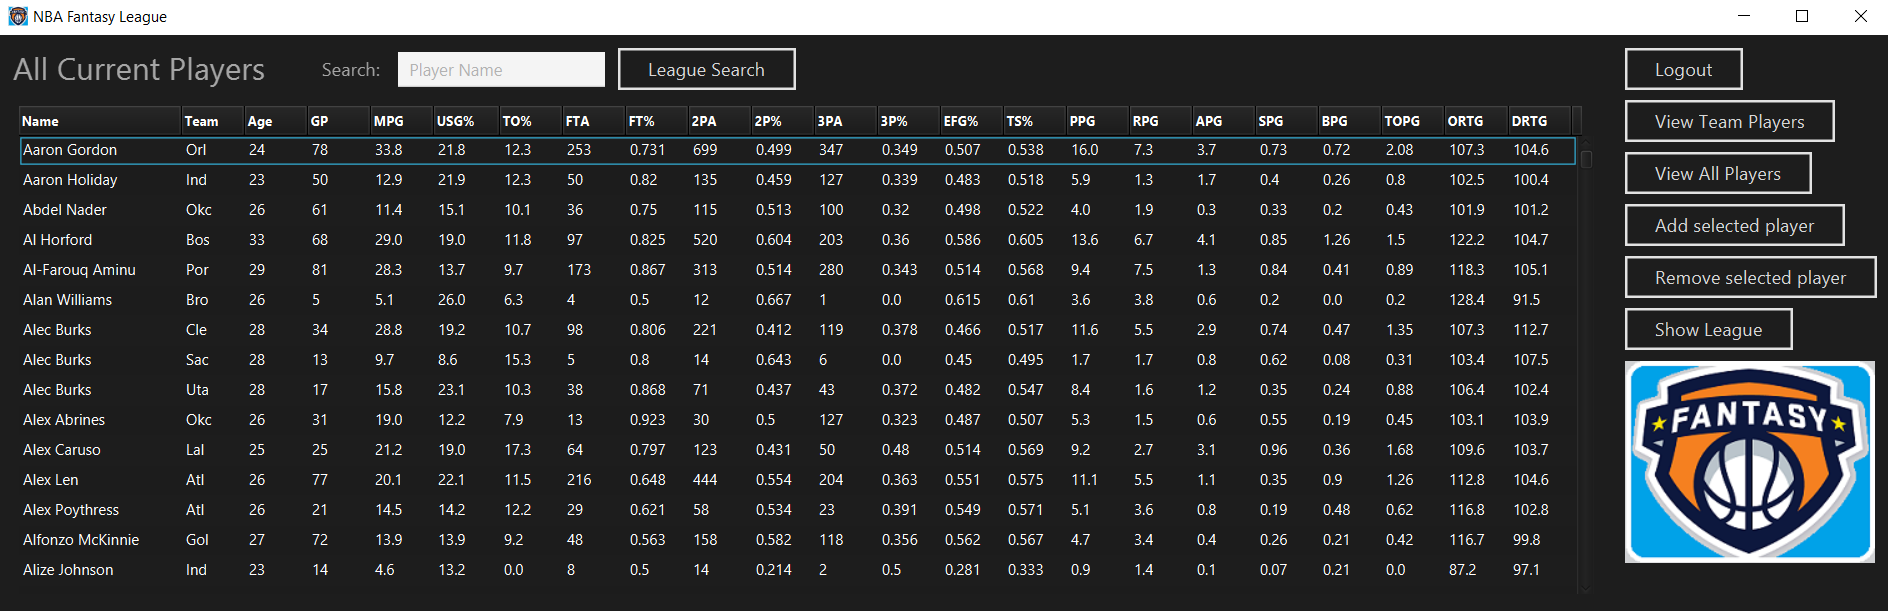
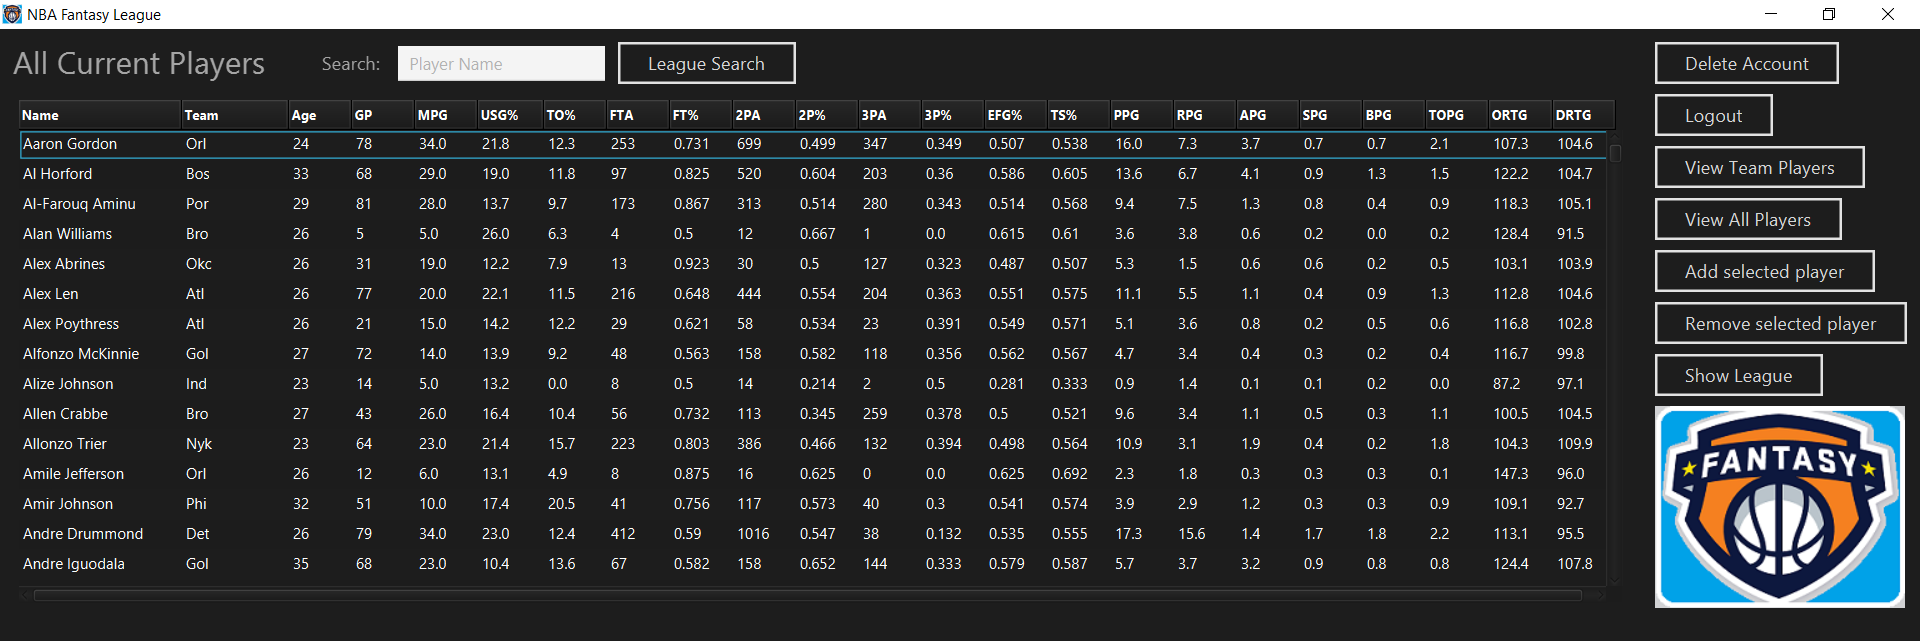
initial commit

Changed region(s): [[0.0, 0.0, 1.0, 0.964], [0.0, 0.6841, 0.0625, 0.7463]]

diff --git a/src/Main.java b/src/Main.java
@@ -1,5 +1,3 @@
-package league;
-
 import javafx.application.Application;
 import javafx.collections.FXCollections;
 import javafx.collections.ObservableList;
@@ -12,11 +10,14 @@ import javafx.scene.image.Image;
 import javafx.scene.image.ImageView;
 import javafx.scene.layout.GridPane;
 import javafx.stage.Stage;
+import league.Database_Utils;
+import league.Player;
+import league.Team;
 
 import java.sql.ResultSet;
 import java.sql.SQLException;
 
-public class FantasyApplication extends Application {
+public class Main extends Application {
     private Stage window;
     private Scene login, team, league;
     private String user, pass;
@@ -56,11 +57,11 @@ public class FantasyApplication extends Application {
         grid.setAlignment(Pos.CENTER);
 
         Label title = new Label("NBA FANTASY LEAGUE");
-       // title.setStyle("-fx-font-size: 25;");
+        // title.setStyle("-fx-font-size: 25;");
         GridPane.setConstraints(title, 0, 0);
 
         ImageView logo = new ImageView(new Image("/images/fantasylogo5.png"));
-        GridPane.setConstraints(logo, 1,0);
+        GridPane.setConstraints(logo, 1, 0);
 
         Label username = new Label("Username: ");
         GridPane.setConstraints(username, 0, 1);
@@ -107,6 +108,10 @@ public class FantasyApplication extends Application {
                 userAlreadyExists.showAndWait();
             } else {
                 this.database.createUser(this.user, this.pass);
+                enterUsername.clear();
+                enterPassword.clear();
+                this.window.setScene(this.team);
+                this.window.centerOnScreen();
             }
         });
         GridPane.setConstraints(create_account, 1, 3);
@@ -121,7 +126,6 @@ public class FantasyApplication extends Application {
         grid.setPadding(new Insets(10, 10, 10, 10));
         grid.setHgap(10);
         grid.setVgap(8);
-        grid.setAlignment(Pos.CENTER);
 
         allPlayers.setItems(getPlayerList(this.database.getAllPlayers()));
         GridPane.setConstraints(allPlayers, 0, 1, 4, 7);
@@ -143,9 +147,11 @@ public class FantasyApplication extends Application {
         );
         GridPane.setConstraints(searchButton, 3, 0);
 
-
         Button delete_account = new Button("Delete Account");
         delete_account.setOnAction(e -> {
+            title.setText("All Current Players     ");
+            allPlayers.setItems(getPlayerList(this.database.getAllPlayers()));
+            this.database.removeAllPlayers(this.user);
             this.database.deleteAccount(this.user);
             this.window.setScene(login);
             this.window.centerOnScreen();
@@ -154,6 +160,8 @@ public class FantasyApplication extends Application {
 
         Button logOut = new Button("Logout");
         logOut.setOnAction(e -> {
+            title.setText("All Current Players     ");
+            allPlayers.setItems(getPlayerList(this.database.getAllPlayers()));
             this.window.setScene(login);
             this.window.centerOnScreen();
         });
@@ -163,7 +171,7 @@ public class FantasyApplication extends Application {
         viewTeam.setOnAction(e -> {
             title.setText("Your Players      ");
             allPlayers.setItems(getPlayerList(this.database.getTeamPlayers(this.user)));
-            });
+        });
 
         GridPane.setConstraints(viewTeam, 5, 2);
 
@@ -174,9 +182,19 @@ public class FantasyApplication extends Application {
         });
         GridPane.setConstraints(viewAllPlayers, 5, 3);
 
+        Alert playerNotAvailable = new Alert(Alert.AlertType.ERROR);
+        playerNotAvailable.setTitle("Error");
+        playerNotAvailable.setHeaderText("Cannot add player");
+        playerNotAvailable.setContentText("Player is already registered on a team");
+
         Button addPlayer = new Button("Add selected player");
-        addPlayer.setOnAction(e ->
-                this.database.addPlayer(this.user, allPlayers.getSelectionModel().getSelectedItem().getName()));
+        addPlayer.setOnAction(e -> {
+            if (this.database.isPlayerAvailable(allPlayers.getSelectionModel().getSelectedItem().getName())) {
+                this.database.addPlayer(this.user, allPlayers.getSelectionModel().getSelectedItem().getName());
+            } else {
+                playerNotAvailable.showAndWait();
+            }
+        });
         GridPane.setConstraints(addPlayer, 5, 4);
 
         Button removePlayer = new Button("Remove selected player");
@@ -197,7 +215,7 @@ public class FantasyApplication extends Application {
         ImageView logo = new ImageView(new Image("/images/fantasylogo.png"));
         logo.setStyle("-fx-border-radius: 30; -fx-background-radius: 10 10 0 0;");
 
-        GridPane.setConstraints(logo,5, 7);
+        GridPane.setConstraints(logo, 5, 7);
 
         grid.getChildren().addAll(allPlayers, search, searchBox, searchButton, viewTeam, viewAllPlayers, addPlayer, removePlayer, logOut, viewLeague, title, logo, delete_account);
         team = new Scene(grid);
@@ -321,7 +339,7 @@ public class FantasyApplication extends Application {
 
         allPlayers = new TableView<>();
         allPlayers.getColumns().addAll(nameCol, teamCol, ageCol, gameCol, minutesCol, usageCol, turnRatioCol, ftaCol, ftaPerCol, twoACol, twoPerCol, threeACol, threePerCol, efgCol, tsCol, ppgCol, rpgCol, apgCol, spgCol, bpgCol, topgCol, ortgCol, drtgCol);
-        allPlayers.setMaxWidth(1300);
+        allPlayers.setMaxWidth(1305);
     }
 
     private void createTeamColumns() {
@@ -392,7 +410,7 @@ public class FantasyApplication extends Application {
 
         allTeams = new TableView<>();
         allTeams.getColumns().addAll(nameCol, teamAgeCol, ftaCol, ftaPerCol, twoACol, twoPerCol, threeACol, threePerCol, efgCol, tsCol, ppgCol, rpgCol, apgCol, spgCol, bpgCol, topgCol);
-        allTeams.setMaxWidth(1000);
+        allTeams.setMaxWidth(1200);
     }
 
     private void setUsername(String user, String pass) {

diff --git a/src/league/Database_Utils.java b/src/league/Database_Utils.java
@@ -217,6 +217,23 @@ public class Database_Utils {
         return rs;
     }
 
+    public boolean isPlayerAvailable(String player){
+        boolean isValid = false;
+        String query = String.format("SELECT COUNT(*) AS REGISTERED FROM PLAYER WHERE PLAYER_NAME = '%1$2s' and USER_TEAM IS NOT NULL", player);
+        try {
+            Connection con = this.getConnection();
+            Statement statement = con.createStatement();
+            ResultSet rs = statement.executeQuery(query);
+            rs.next();
+            int isRegistered = rs.getInt("REGISTERED");
+            isValid = (isRegistered == 0);
+        } catch (SQLException e){
+            System.out.println("Error could not get player registration status");
+            e.printStackTrace();
+        }
+        return isValid;
+    }
+
     public void addPlayer(String user, String player){
         String query = String.format("CALL enroll('%1$2s','%2$2s')", user, player);
         try {
@@ -241,6 +258,18 @@ public class Database_Utils {
         }
     }
 
+    public void removeAllPlayers(String user){
+        String query = String.format("CALL removeAllPlayers('%1$2s')", user);
+        try {
+            Connection con = this.getConnection();
+            Statement statement = con.createStatement();
+            statement.executeQuery(query);
+        } catch (SQLException e){
+            System.out.println("Error: Could not delete account");
+            e.printStackTrace();
+        }
+    }
+
     public void deleteAccount(String user) {
         String query = String.format("DELETE FROM user_team WHERE USERNAME = '%1$2s'", user);
         try {
@@ -255,6 +284,7 @@ public class Database_Utils {
 
     public static void main(String args[]){
         Database_Utils db = new Database_Utils();
-        System.out.println(db.validUserLogin("nick", "burn"));
+        System.out.println(db.isPlayerAvailable("Kyrie Irving"));
+
     }
 }
